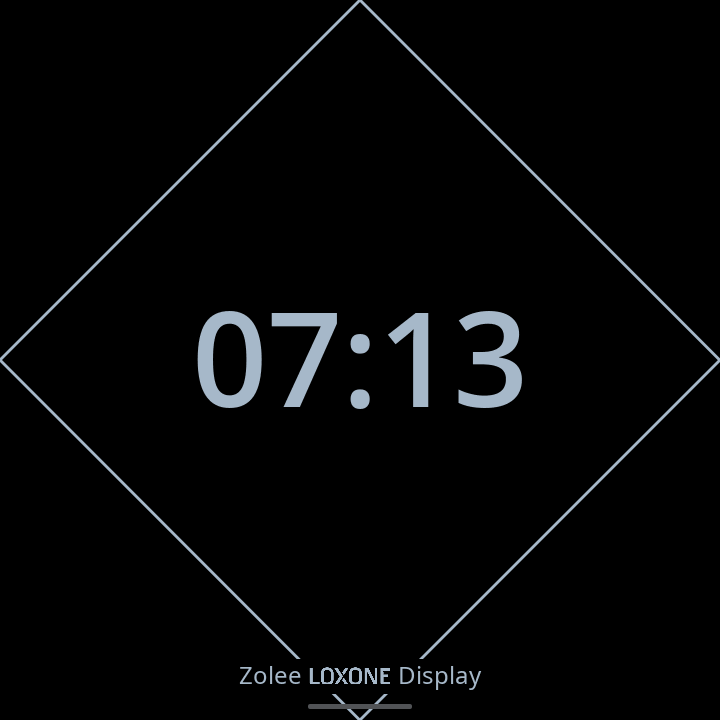
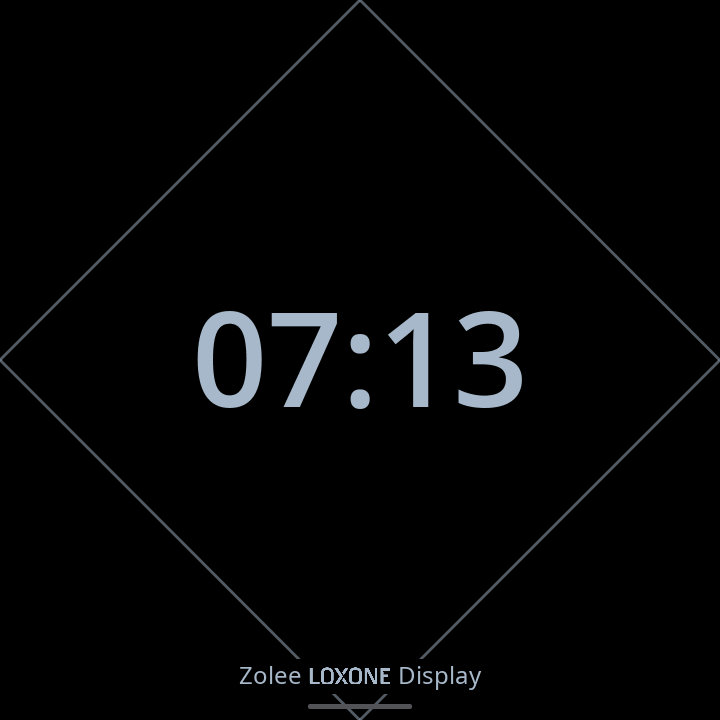
Verify half-opacity Touch boundaries and refresh the live previews

diff --git a/main/web/admin.js b/main/web/admin.js
@@ -398,7 +398,7 @@ function renderTouch(){
   settings.append(check('Érintési zónák engedélyezése a képernyőkímélőn',t,'enabled'));
   input(settings,'Nappali szövegszín',t,'dayTextColor','color',{'aria-describedby':'touch-color-hint'});
   top.append(el('p','hint','Az óra képernyőjén a négy sarokhoz külön művelet, középre a helyiség világításvezérlője rendelhető.'));
-  const colorHint=el('p','hint','Az óra, az alsó felirat és az osztóvonal nappal a kiválasztott színnel jelenik meg. Éjszaka mindhárom tompa vörös.');
+  const colorHint=el('p','hint','Az óra és az alsó felirat nappal a kiválasztott színnel, éjszaka tompa vörössel jelenik meg. Az osztóvonal mindkét esetben ugyanezt a színt használja 50%-os fedettséggel.');
   colorHint.id='touch-color-hint';top.append(colorHint);
   if(!app.profile.display.saverSeconds){
     const hint=el('p','hint','Az automatikus képernyőkímélő jelenleg ki van kapcsolva. ');

diff --git a/simulator/render.c b/simulator/render.c
@@ -117,15 +117,21 @@ static void check_saver_chrome(const lv_area_t *footer, uint32_t ink)
         }
         assert(visible > 0 && visible <= 16);
     }
-    /* 45 foknál a három fizikai pixel széles vonásnak legalább két teljes
-     * tintapixele és egy simított széle van egy vízszintes metszetben. */
+    /* A vonás belsejében az 50%-os tinta a fekete alappal keveredik.
+     * A raszterizáló a csatornákat és a fedettségi maszkot is kerekíti. */
     const int sample_y[] = {180, 540};
     for (unsigned i = 0; i < sizeof(sample_y) / sizeof(*sample_y); ++i) {
         for (int x = 180; x <= 540; x += 360) {
+            uint32_t blended = framebuffer[sample_y[i] * SIDE + x] & 0xffffff;
+            for (unsigned shift = 0; shift < 24; shift += 8) {
+                int source = (ink >> shift) & 255;
+                int channel = (blended >> shift) & 255;
+                assert(abs(2 * channel - source) <= 3);
+            }
             unsigned solid = 0, visible = 0;
             for (int dx = -6; dx <= 6; ++dx) {
                 uint32_t pixel = framebuffer[sample_y[i] * SIDE + x + dx] & 0xffffff;
-                if (pixel == ink) ++solid;
+                if (pixel == blended) ++solid;
                 if (pixel) ++visible;
             }
             assert(solid >= 2 && visible >= 4 && visible <= 7);
@@ -151,6 +157,12 @@ void assert_standby(const char *time_text, bool night)
     uint32_t day_ink = fixture_touch && fixture_touch_day_ink
                            ? strtoul(fixture_touch_day_ink + 1, NULL, 16) : 0x8B8C8E;
     uint32_t expected = night ? 0xA04E4E : day_ink;
+    if (fixture_touch) {
+        lv_obj_t *divider = lv_obj_get_child_by_type(layer, 0, &lv_line_class);
+        assert(divider && lv_obj_get_style_line_width(divider, 0) == 3);
+        assert(lv_obj_get_style_line_opa(divider, 0) == 128);
+        assert(lv_color_eq(lv_obj_get_style_line_color(divider, 0), lv_color_hex(expected)));
+    }
     unsigned solid_clock = 0;
     for (int y = 260; y < 460; y++) {
         for (int x = 0; x < SIDE; x++) {

diff --git a/simulator/README.md b/simulator/README.md
@@ -14,7 +14,7 @@ mkdir -p /tmp/zld-images
 
 Az előnézetek 720 × 720-as PPM-fájlok. A program ellenőrzi a Wi-Fi jelszómezőt, a webes IP-címet, a termosztátparancsokat, a jelenetválasztást, az RGBW-ablakot, az energiafül húzását, a képernyőkímélő fényerejét és az első érintés kizárólagos ébresztését. A készenléti órán a teszt képpontokból ellenőrzi a színt az időablak váltásakor, a Miniserver-jel megváltozásakor és jelkimaradáskor. Külön ellenőrzi az alsó feliratot és a felső ikonsort. A napi összesítő számítását és SD-visszaállítását a `tests/daily/run.sh` külön teszteli.
 
-A Touch módhoz a program a valódi LVGL-érintési eseményeket adja a firmware-nek. A szimulált Miniserver-határfelület rögzíti az átadott zónát, a koppintások számát, a munkamenetet és az időt. A teszt a határvonalak egymás melletti képpontjait, a 150, 400 és 1000 ms-os időablakot, a nyomva tartást és az alsó sávról indított húzást is ellenőrzi. Profilváltás, hívás, kapcsolatvesztés és feloldás közben a félbehagyott koppintásokat külön vizsgálja. A képpontpróba összeveti az óra, a felirat, a szólogó és a rombusz mind a négy élének színét. Zárolás közben nappal és éjszaka is módosítja a nappali színt, majd ellenőrzi a következő napszakváltást és a három képpont széles osztóvonal takarását a felirat mögött.
+A Touch módhoz a program a valódi LVGL-érintési eseményeket adja a firmware-nek. A szimulált Miniserver-határfelület rögzíti az átadott zónát, a koppintások számát, a munkamenetet és az időt. A teszt a határvonalak egymás melletti képpontjait, a 150, 400 és 1000 ms-os időablakot, a nyomva tartást és az alsó sávról indított húzást is ellenőrzi. Profilváltás, hívás, kapcsolatvesztés és feloldás közben a félbehagyott koppintásokat külön vizsgálja. A képpontpróba az óra, a felirat és a szólogó teljes színét ellenőrzi. A rombusz mind a négy élén megméri az 50%-os fedettségű vonal színét a fekete háttéren. Zárolás közben nappal és éjszaka is módosítja a nappali színt, majd ellenőrzi a következő napszakváltást és a három képpont széles osztóvonal takarását a felirat mögött.
 
 | Mentett előnézet | Nézet |
 |---|---|

diff --git a/README.md b/README.md
@@ -38,7 +38,7 @@ A három előnézetet a firmware saját LVGL-felülete rajzolta mintaadatokkal. 
 
 **Éjszakai használat.** Az éjszakai fényerőt Miniserver-jel vagy helyi időzítés kapcsolja. Ettől függetlenül beállítható az inaktivitási idő. Ha letelik, a halvány fülsor alatt nagy, félkövér óra jelenik meg. A számjegyek nappal szürkék, aktív éjszakai módban tompa vörösek. Legalul az egyszínű „Zolee LOXONE Display” felirat látható a Loxone emblémájával. Alapbeállítással az első érintés felébreszti a panelt. Az időkorlát üresen hagyva vagy nullára állítva kikapcsolja az automatikus képernyőkímélőt.
 
-**Használat Touch-ként.** Az óra képernyőjén a négy sarokhoz külön műveletet rendelhetsz. A felső ikonsor ilyenkor eltűnik. A rombusz belsejében egy, két vagy három koppintással vezérelheted a szoba világítását. Az órának, a rombusz vonalának és az alsó feliratnak közös színe van. Nappal a webes színválasztóval beállított árnyalatot használják, éjjel tompa vörösre váltanak. A koppintások közötti idő alapból 0,4 másodperc. A lapokhoz az alsó vonaltól felfelé húzva térhetsz vissza. A kijelző minden ujjletételt rövid, halk kattanással jelez, már a Wi-Fi-beállításnál is. [Az öt érintőmező beállítása](docs/web-config.md#használat-touch-ként)
+**Használat Touch-ként.** Az óra képernyőjén a négy sarokhoz külön műveletet rendelhetsz. A felső ikonsor ilyenkor eltűnik. A rombusz belsejében egy, két vagy három koppintással vezérelheted a szoba világítását. Az óra és az alsó felirat teljes fedettségű, a rombusz vonala ugyanazt a színt 50%-os fedettséggel használja. Nappal a webes színválasztóval beállított árnyalatot használják, éjjel tompa vörösre váltanak. A koppintások közötti idő alapból 0,4 másodperc. A lapokhoz az alsó vonaltól felfelé húzva térhetsz vissza. A kijelző minden ujjletételt rövid, halk kattanással jelez, már a Wi-Fi-beállításnál is. [Az öt érintőmező beállítása](docs/web-config.md#használat-touch-ként)
 
 ![A webes háttérválasztó mintabeállítással](docs/images/admin-background-picker.jpg)
 

diff --git a/docs/fejlesztesi-terv.md b/docs/fejlesztesi-terv.md
@@ -20,7 +20,7 @@ A kiinduló állapot a [ZoleeEnergyFlowDisplay 6786e84 kiadási fája](https://g
 | --- | --- |
 | Beállítások és korábbi profilok betöltése | Az új funkció kezdetben kikapcsolt. Mentés és újraindítás után megmarad mind az öt hozzárendelés és a középső koppintások időablaka. |
 | Kezelés az óraképernyőn | A négy sarok és a középső mező elkülönül. Az alsó vonaltól felfelé húzva az előző lap nyílik meg. Egy elrontott húzás sem vezérelhet világítást. |
-| Touch színei | A színválasztó értéke mentés és újraindítás után is megmarad. Nappal az óra, a három képpont széles osztóvonal és az alsó felirat azonos színű. Aktív éjszakai módban mindhárom a rögzített tompa vörössel jelenik meg. Az alsó felirat kitakarja a mögötte futó vonalat. |
+| Touch színei | A színválasztó értéke mentés és újraindítás után is megmarad. A nappali szín és a rögzített éjszakai vörös az órán és a feliraton teljes fedettséggel, a három képpont széles osztóvonalon 50%-os fedettséggel jelenik meg. Az alsó felirat kitakarja a mögötte futó vonalat. |
 | Miniserver-parancsok | Egy, két és három koppintást is ki kell próbálni. A világítási kép az adott blokk listájából választható. Kapcsolatvesztés vagy profilmódosítás után egy korábbi érintés sem hajtható végre. |
 | Rövid hangvisszajelzés | Már a Wi-Fi-billentyűzeten, majd egy normál lapon és a képernyőkímélőn is minden ujjletétel egy halk kattanást ad. Húzás és nyomva tartás közben nem ismétlődik. A hangot csengetés és aktív beszélgetés alatt is ellenőrizni kell. |
 | Átadás | A nappali és éjszakai Touch-előnézet a firmware szimulátorából készül. Mindkét cikkszám mindkét szilíciumprofilja forduljon, az élő 2C/3C kimeneteket és a kattanás hangerejét fizikai panellel is ellenőrizni kell. |

diff --git a/docs/screens.md b/docs/screens.md
@@ -48,7 +48,7 @@ Alapbeállítással az első érintés visszahozza az előző lapot. Nulla máso
 
 **Használat Touch-ként** módban az egyes sarkokra koppintva a hozzájuk rendelt műveletet indíthatod el. A kijelző négy oldalának felezőpontját összekötő rombusz belseje egyetlen világításgomb. Dupla vagy tripla koppintáshoz egymás után érintsd meg a rombusz belsejét. Két érintés között alapból legfeljebb 0,4 másodperc telhet el.
 
-A rombusz vonala három képpont széles. Az óra, az osztóvonal és az alsó „Zolee LOXONE Display” felirat nappal a **Nappali szövegszín** beállítását követi. Az alapértelmezett szürke `#8B8C8E`. Aktív éjszakai módban mindhárom tompa vörösre (`#A04E4E`) vált. A felső ikonsor Touch módban rejtett, alul pedig a felirat és a logó kitakarja a mögöttük futó vonalat.
+A rombusz vonala három képpont széles, nappal és éjjel is 50%-os fedettséggel látszik. Az óra és az alsó felirat teljes fedettségű. Az óra, az osztóvonal és az alsó „Zolee LOXONE Display” felirat nappal a **Nappali szövegszín** beállítását követi. Az alapértelmezett szürke `#8B8C8E`. Aktív éjszakai módban mindhárom tompa vörösre (`#A04E4E`) vált. A felső ikonsor Touch módban rejtett, alul pedig a felirat és a logó kitakarja a mögöttük futó vonalat.
 
 A feloldáshoz az alsó vonaltól húzd az ujjadat felfelé, majd emeld fel. Ezzel az előzőleg megnyitott lapra térsz vissza. A feloldás akkor is használható, ha épp megszakadt a kapcsolat a Miniserverrel. A bejövő kapucsengés mindkét képernyőkímélőből megnyitja a kaputelefont. [Gombok hozzárendelése](web-config.md#használat-touch-ként)
 
